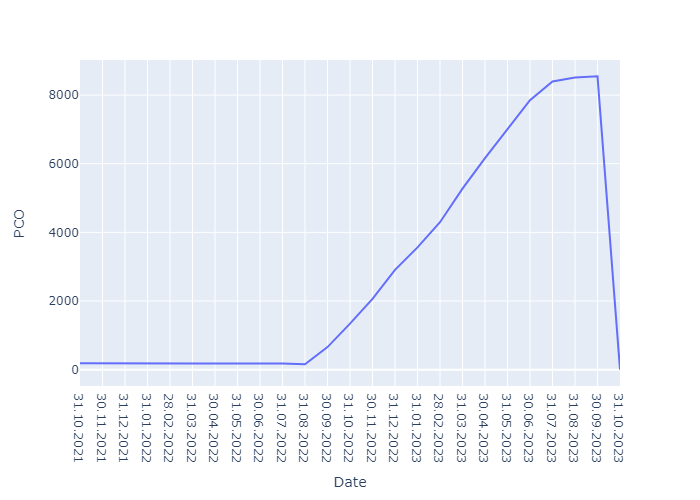
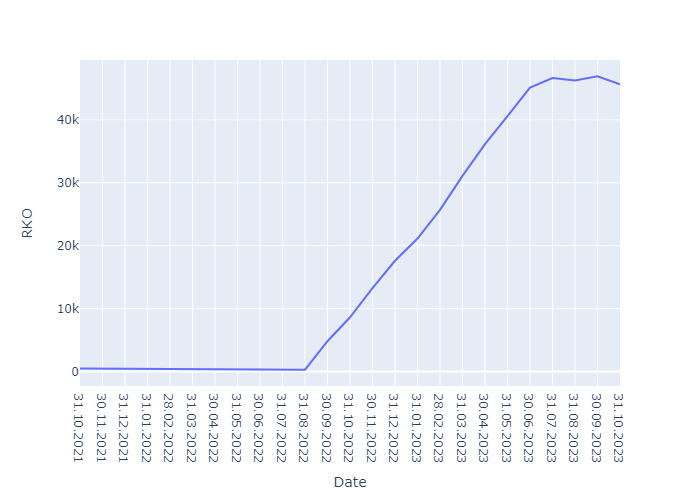
a

diff --git a/test.py b/test.py
@@ -4,7 +4,7 @@ import pandas as pd
 data = pd.read_csv("ha/Книга1.csv", sep=";", encoding="1251")
 print(data)
 df = px.data.stocks()
-fig = px.line(data, x='Date', y="PCO")
+fig = px.line(data, x='Date', y="RKO")
 # print(df)
 
 
